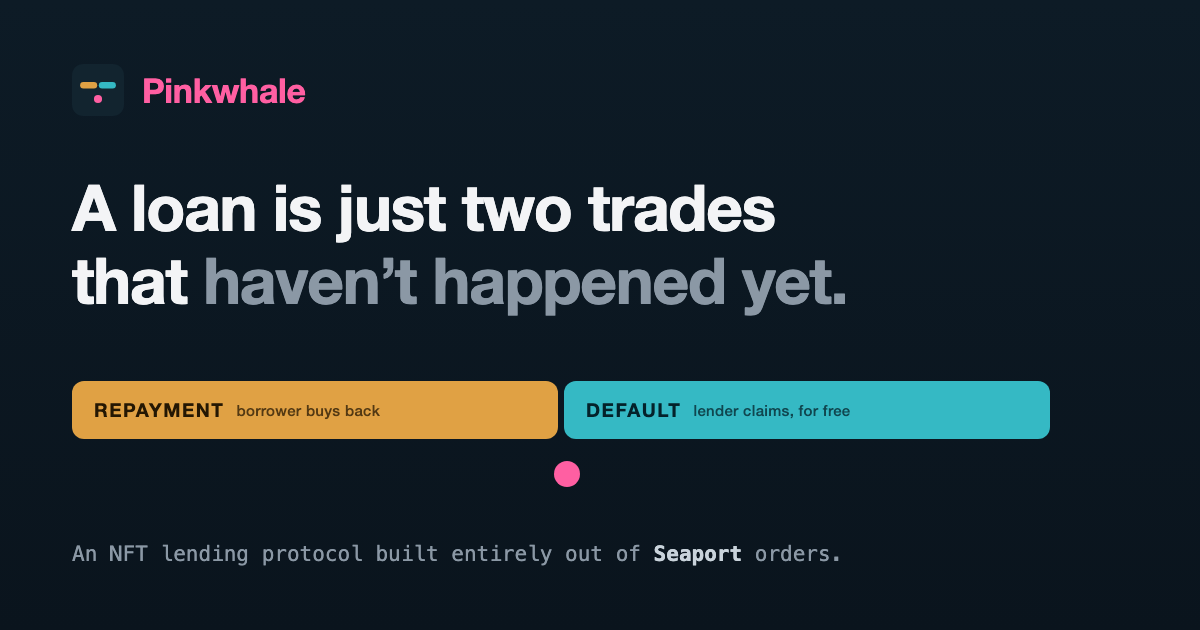
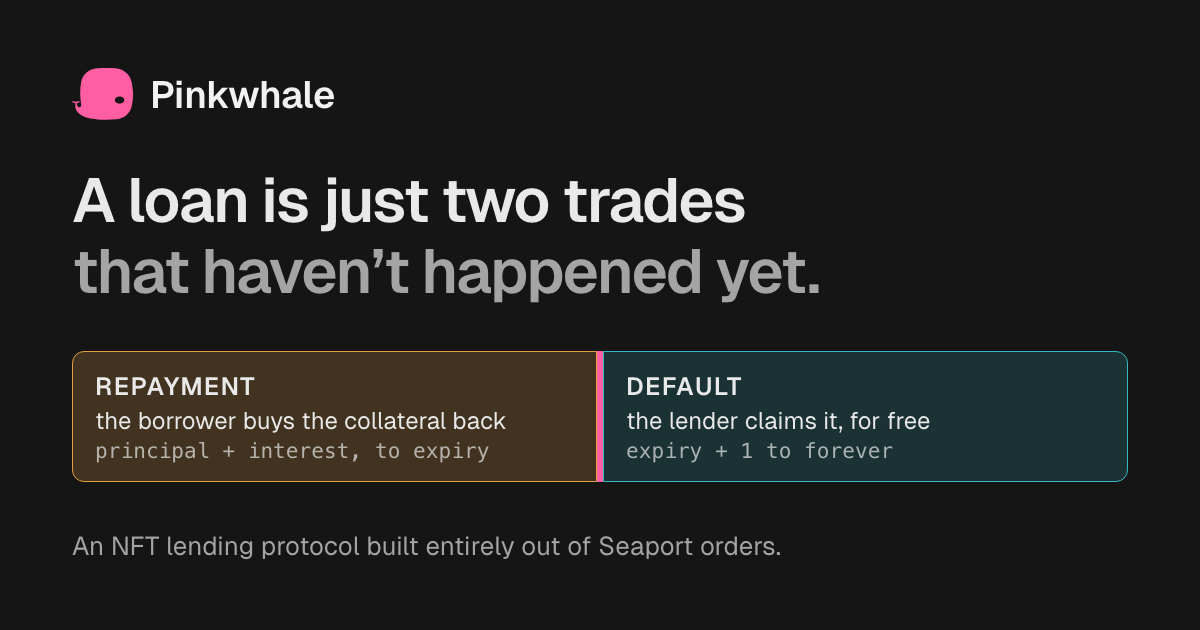
Rebuild the social card from a real source.
The old og.png was a one-off image with nothing behind it, and it had drifted
off the design system in every dimension: an abstract rounded-square glyph
instead of the whale, a navy background against the site's neutral dark, a
condensed grotesque instead of Geist, and the borrower/lender colours poured
into solid slabs when the rest of the site uses them as 1px borders over a 20%
tint. The pink `endTime + 1` gap had come loose from between the two bars and
was floating underneath as a dot.

Replace it with docs/og/card.html, rendered by scripts/og-image.ts. Making the
card a real page means it loads the same Geist file vocs serves and resolves the
same oklch and color-mix tokens as the site, so it cannot drift onto a different
typeface or palette again. The bars are now the lifecycle axis as
LifecycleScrubber actually draws it, pink gap included.

The PNG stays committed and `vocs build` still only copies docs/public, so
nothing at build or deploy time needs a browser.

diff --git a/docs/og/card.html b/docs/og/card.html
@@ -1,0 +1,194 @@
+<!doctype html>
+<html lang="en">
+  <head>
+    <meta charset="utf-8" />
+    <title>Pinkwhale — social card</title>
+
+    <style>
+      /* The font vocs itself serves, loaded from the same file the site loads it
+         from, so the card cannot drift onto a different typeface. */
+      @font-face {
+        font-family: 'Geist';
+        font-style: normal;
+        font-weight: 100 900;
+        src: url('../../node_modules/vocs/src/server/fonts/geist.woff2') format('woff2');
+      }
+
+      :root {
+        /* Dark-mode vocs tokens, resolved by hand because the card is rendered
+           outside the app: --background-color-primary is gray2 in dark, and
+           --text-color-primary / --text-color-secondary are gray12 / gray10. */
+        --bg: oklch(0.195 0 0);
+        --text: oklch(0.933 0 0);
+        --text-secondary: oklch(0.72 0 0);
+
+        /* Verbatim from src/components/pinkwhale.css. */
+        --pw-borrower: #e0a144;
+        --pw-lender: #35b9c4;
+        --pw-brand: #ff5fa2;
+        --pw-muted: #8b8b93;
+      }
+
+      * {
+        margin: 0;
+        padding: 0;
+        box-sizing: border-box;
+      }
+
+      body {
+        width: 1200px;
+        height: 630px;
+        display: flex;
+        flex-direction: column;
+        justify-content: space-between;
+        padding: 68px 72px 64px;
+        background: var(--bg);
+        color: var(--text);
+        font-family: 'Geist', ui-sans-serif, system-ui, sans-serif;
+        font-feature-settings: 'rlig' 1, 'calt' 1;
+        letter-spacing: 0.005em;
+        -webkit-font-smoothing: antialiased;
+      }
+
+      /* -- wordmark ----------------------------------------------------------
+         Same composition as public/logo-dark.svg: the whale carries the pink,
+         the word is set in the near-white the logo uses. */
+
+      .mark {
+        display: flex;
+        align-items: center;
+        gap: 16px;
+      }
+
+      .mark svg {
+        /* 62:52 is the path's own 28.2:23.8. */
+        width: 62px;
+        height: 52px;
+        display: block;
+      }
+
+      .mark span {
+        font-size: 38px;
+        font-weight: 600;
+        letter-spacing: -0.01em;
+        color: #f4f2f0;
+      }
+
+      /* -- headline ----------------------------------------------------------
+         Broken by hand rather than by width: the line has to land after
+         "trades" for the second clause to carry the turn. */
+
+      h1 {
+        font-size: 62px;
+        font-weight: 600;
+        line-height: 1.14;
+        letter-spacing: -0.028em;
+        color: var(--text);
+      }
+
+      h1 em {
+        font-style: normal;
+        color: var(--text-secondary);
+      }
+
+      /* -- the lifecycle axis ------------------------------------------------
+         The real widget from LifecycleScrubber, scaled up: two tinted bars with
+         1px actor borders, meeting at the 3px pink gap that is `endTime + 1`. */
+
+      .pw-axis {
+        display: grid;
+        grid-template-columns: 1fr 6px 1fr;
+      }
+
+      .pw-bar {
+        display: flex;
+        flex-direction: column;
+        gap: 3px;
+        min-width: 0;
+        padding: 18px 22px;
+      }
+
+      .pw-bar strong {
+        font-size: 25px;
+        font-weight: 600;
+        letter-spacing: 0.06em;
+      }
+
+      /* Both bars are one line each by design — a wrap here would desynchronise
+         their heights and break the axis. */
+      .pw-bar__line,
+      .pw-bar__time {
+        white-space: nowrap;
+      }
+
+      .pw-bar__line {
+        font-size: 24px;
+      }
+
+      .pw-bar__time {
+        font-family: ui-monospace, SFMono-Regular, Menlo, monospace;
+        font-size: 21px;
+        opacity: 0.7;
+      }
+
+      .pw-bar--repayment {
+        background: color-mix(in srgb, var(--pw-borrower) 22%, transparent);
+        border: 1px solid var(--pw-borrower);
+        border-radius: 12px 0 0 12px;
+      }
+
+      .pw-bar--default {
+        background: color-mix(in srgb, var(--pw-lender) 18%, transparent);
+        border: 1px solid var(--pw-lender);
+        border-radius: 0 12px 12px 0;
+      }
+
+      .pw-gap {
+        background: var(--pw-brand);
+      }
+
+      /* -- footer ----------------------------------------------------------- */
+
+      p {
+        font-size: 26px;
+        line-height: 1.5;
+        color: var(--text-secondary);
+      }
+    </style>
+  </head>
+
+  <body>
+    <div class="mark">
+      <svg viewBox="0 0 28.2 23.8" xmlns="http://www.w3.org/2000/svg" aria-hidden="true">
+        <path
+          fill="#ff5fa2"
+          fill-rule="evenodd"
+          clip-rule="evenodd"
+          d="M27.1706 6.36452C26.4095 2.89934 23.3649 0.425636 19.8397 0.165247C16.8853 -0.0550824 14.2814 -0.0550824 11.4171 0.165247C7.80167 0.425636 4.66698 2.99949 4.06608 6.59486C3.51526 9.86976 3.51526 12.9644 4.16623 16.8202V16.8502C4.15622 17.2408 4.01601 17.5412 3.60539 17.9218C3.32497 18.0219 3.18476 18.0019 2.92437 17.9218C2.50374 17.6814 2.43364 17.4912 2.33349 17.2007C2.30344 17.1306 2.28341 17.0605 2.24336 16.9804L2.08312 16.2493C2.56383 15.9689 2.85427 15.8287 3.43514 15.6684V15.2478C2.90434 15.3379 2.60389 15.3279 2.08312 15.2478L1.82273 15.6684H1.51226L1.41211 15.2478C0.851273 15.3379 0.540809 15.3279 0 15.2478V15.6684C0.671004 15.7786 0.991483 15.9088 1.51226 16.2493L1.46219 16.9804C1.46219 16.9804 1.41211 17.5012 1.51226 18.3424C1.61241 19.1837 2.22333 19.9649 3.0746 20.8061C5.42812 22.6088 7.35099 23.0495 10.4657 23.3699C10.8162 23.4501 11.1767 23.5001 11.5473 23.5302C14.5317 23.7605 17.1857 23.7505 20.1802 23.4801C23.5252 23.1797 26.4496 20.8762 27.2207 17.5913C28.072 13.9559 28.102 10.6309 27.1706 6.37453V6.36452ZM19.4691 14.6769C19.4691 13.7656 20.4606 13.0245 21.6824 13.0245C22.9043 13.0245 23.8957 13.7656 23.8957 14.6769C23.8957 15.5883 22.9043 16.3294 21.6824 16.3294C20.4606 16.3294 19.4691 15.5883 19.4691 14.6769Z"
+        />
+      </svg>
+      <span>Pinkwhale</span>
+    </div>
+
+    <h1>A loan is just two trades<br /><em>that haven&rsquo;t happened yet.</em></h1>
+
+    <div class="pw-axis">
+      <div class="pw-bar pw-bar--repayment">
+        <strong>REPAYMENT</strong>
+        <span class="pw-bar__line">the borrower buys the collateral back</span>
+        <span class="pw-bar__time">principal + interest, to expiry</span>
+      </div>
+
+      <!-- The gap is real: the default order starts at endTime + 1. -->
+      <div class="pw-gap"></div>
+
+      <div class="pw-bar pw-bar--default">
+        <strong>DEFAULT</strong>
+        <span class="pw-bar__line">the lender claims it, for free</span>
+        <span class="pw-bar__time">expiry + 1 to forever</span>
+      </div>
+    </div>
+
+    <p>An NFT lending protocol built entirely out of Seaport orders.</p>
+  </body>
+</html>

diff --git a/scripts/og-image.ts b/scripts/og-image.ts
@@ -1,0 +1,124 @@
+/**
+ * Renders the social card.
+ *
+ *   pnpm docs:og
+ *
+ * `docs/og/card.html` is the source of truth; this only rasterises it. The card
+ * is deliberately a real page rather than a hand-drawn image, so it inherits the
+ * font vocs ships and resolves the same oklch and color-mix tokens the site uses
+ * — the og.png this replaces was a one-off PNG with no source, and it drifted
+ * onto a different logo, palette and typeface without anything noticing.
+ *
+ * The output is committed. `vocs build` only copies docs/public, so nothing at
+ * build or deploy time needs a browser; run this when the card changes.
+ */
+import {spawn} from 'node:child_process';
+import {existsSync, mkdtempSync, renameSync, rmSync, statSync} from 'node:fs';
+import {homedir, tmpdir} from 'node:os';
+import {join, resolve} from 'node:path';
+import {setTimeout as sleep} from 'node:timers/promises';
+import {fileURLToPath} from 'node:url';
+
+const WIDTH = 1200;
+const HEIGHT = 630;
+
+/** How long to wait for the PNG to land before giving up. */
+const RENDER_TIMEOUT_MS = 30_000;
+const POLL_MS = 100;
+
+const root = resolve(fileURLToPath(import.meta.url), '../..');
+const source = join(root, 'docs/og/card.html');
+const output = join(root, 'docs/public/og.png');
+
+/**
+ * No browser is a dependency of this repo, so use whichever one is already on
+ * the machine. chrome-headless-shell first: it is built for exactly this and
+ * exits when it is done, where full Chrome (151, at least) writes the screenshot
+ * and then stays up forever. CHROME_PATH covers anything not on this list.
+ */
+const BROWSER_CANDIDATES = [
+  process.env.CHROME_PATH,
+  ...['1234', '1217', '1208'].map((build) =>
+    join(
+      homedir(),
+      'Library/Caches/ms-playwright',
+      `chromium_headless_shell-${build}`,
+      'chrome-headless-shell-mac-arm64/chrome-headless-shell'
+    )
+  ),
+  '/Applications/Google Chrome.app/Contents/MacOS/Google Chrome',
+  '/Applications/Chromium.app/Contents/MacOS/Chromium',
+  '/usr/bin/chrome-headless-shell',
+  '/usr/bin/google-chrome',
+  '/usr/bin/chromium'
+];
+
+const findBrowser = () => {
+  const found = BROWSER_CANDIDATES.find((path) => path !== undefined && existsSync(path));
+  if (!found) {
+    throw new Error(
+      `No Chrome found. Tried:\n  ${BROWSER_CANDIDATES.filter(Boolean).join('\n  ')}\nSet CHROME_PATH to override.`
+    );
+  }
+  return found;
+};
+
+/**
+ * Both browsers write the PNG well before they are willing to exit, so wait on
+ * the file rather than on the process: it is the one signal that means the same
+ * thing for either binary. Size has to settle too, or a half-flushed file gets
+ * moved into place.
+ */
+const waitForPng = async (path: string, deadline: number): Promise<void> => {
+  const size = existsSync(path) ? statSync(path).size : 0;
+  if (size > 0) {
+    await sleep(POLL_MS);
+    if (statSync(path).size === size) return;
+  }
+  if (Date.now() > deadline) throw new Error(`Timed out waiting for ${path}`);
+
+  await sleep(POLL_MS);
+  return waitForPng(path, deadline);
+};
+
+const render = async () => {
+  const browser = findBrowser();
+  // Chrome writes into its profile directory and, for full Chrome, spawns
+  // updater children off it. Give it a scratch one and throw it away after.
+  const profile = mkdtempSync(join(tmpdir(), 'pinkwhale-og-'));
+  const staging = join(profile, 'og.png');
+
+  const child = spawn(
+    browser,
+    [
+      '--headless=new',
+      `--user-data-dir=${profile}`,
+      '--disable-gpu',
+      '--hide-scrollbars',
+      '--force-device-scale-factor=1',
+      '--no-first-run',
+      '--no-default-browser-check',
+      '--disable-component-update',
+      '--disable-background-networking',
+      // The card loads the Geist file out of node_modules over file://.
+      '--allow-file-access-from-files',
+      // Waits for the webfont instead of shooting the fallback face.
+      '--virtual-time-budget=5000',
+      `--window-size=${WIDTH},${HEIGHT}`,
+      `--screenshot=${staging}`,
+      `file://${source}`
+    ],
+    {stdio: 'ignore'}
+  );
+
+  try {
+    await waitForPng(staging, Date.now() + RENDER_TIMEOUT_MS);
+    renameSync(staging, output);
+    console.log(`Wrote ${output} (${WIDTH}x${HEIGHT}) via ${browser}`);
+  } finally {
+    child.kill('SIGKILL');
+    rmSync(profile, {recursive: true, force: true});
+  }
+};
+
+await render();
